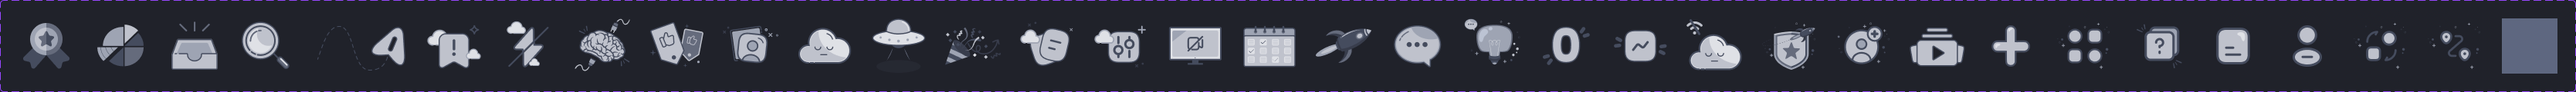
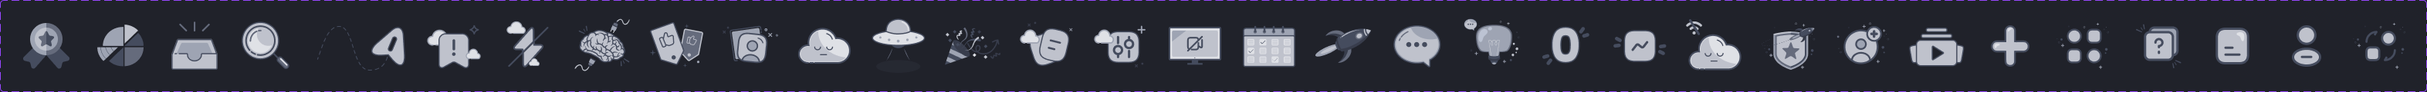
Delete the null Empty state illustration; rename Categorize to Categorise
Figma: the 8 Empty state variants that used the null placeholder now default to
Empty box (as code does), the null variant is deleted, and Assessments
Type=Categorize is Categorise in both sets. Mapping, figma.json, Compare rows and
notes follow.

Changed region(s): [[0.0, 0.2, 0.9975, 0.8], [0.0, 0.975, 0.9975, 1.0], [0.0, 0.0, 0.9975, 0.025]]

diff --git a/apps/shell/src/modules/components/empty-state/EmptyStateCompare.tsx b/apps/shell/src/modules/components/empty-state/EmptyStateCompare.tsx
@@ -13,7 +13,7 @@ const compare: Compare = {
     { property: 'Mobile', figma: '375px; padding 16, gap 16; title Bold 16', reference: 'Same; fills its parent', status: 'Matches' },
     { property: 'Info', figma: 'Title and description 8px apart, centred', reference: 'Same', status: 'Matches' },
     { property: 'Buttons', figma: 'Outlined and Filled Medium, 16px apart', reference: 'Same', status: 'Matches' },
-    { property: 'Illustration', figma: 'The null placeholder (a #5E6780 square) in the set', reference: 'A real illustration from the set; four exported', status: 'Matches', note: 'The other 30 illustrations can be exported when a page needs them.' },
+    { property: 'Illustration', figma: 'Empty box by default (the null placeholder was deleted on 2026-09-30)', reference: 'Empty box by default; any of the 33 illustrations', status: 'Matches' },
     { property: 'Dropzone surface', figma: 'Surface=Dropzone (added 2026-09-29): Input-background, dashed Border-elevated 8/8 inside, radius 20, desktop padding 32', reference: 'Same (surface="dropzone"; the outline is an SVG so the dashes can be set)', status: 'Matches', note: 'From the prototype’s course builder. It fills the width of its area in code; Figma hugs.' },
   ],
   engineering: {

diff --git a/apps/shell/src/modules/components/empty-state-illustration/EmptyStateIllustrationCompare.tsx b/apps/shell/src/modules/components/empty-state-illustration/EmptyStateIllustrationCompare.tsx
@@ -11,7 +11,7 @@ const compare: Compare = {
   differences: [
     { property: "Artwork", figma: "33 illustrations, 72px tall", reference: "The same 33 SVGs (from the prototype; empty box, search, resources and no activity exported from Figma in batch 9)", status: "Matches" },
     { property: "Prototype files", figma: "Share is 120 wide, so every variant after it sits 48px further along the set", reference: "The prototype cropped 28 files 48px short and Share to 72 wide, cutting the art. Fixed here and in the prototype (viewBoxes from the Figma positions; Share re-exported)", status: "Matches" },
-    { property: "Unnamed variant", figma: "A 34th variant called “null”", reference: "Left out", status: "Design to update", note: "Name it or delete it." },
+    { property: "Unnamed variant", figma: "The “null” placeholder variant was deleted on 2026-09-30; the 8 Empty state variants that used it now default to Empty box", reference: "Empty box is the default", status: "Matches" },
     { property: "Light version", figma: "One copy, used as an instance on the light board", reference: "One set of files: the Neutral colours don't change with the mode", status: "Matches" },
   ],
   engineering: {

diff --git a/apps/shell/src/modules/components/assessment-illustration/AssessmentIllustrationCompare.tsx b/apps/shell/src/modules/components/assessment-illustration/AssessmentIllustrationCompare.tsx
@@ -12,7 +12,7 @@ const compare: Compare = {
     { property: "Artwork", figma: "Eleven types, Mobile 56 and Desktop 80", reference: "The same 22 SVGs (from the prototype), used by the Assessment card since batch 15", status: "Matches" },
     { property: "Light set", figma: "Lesson quiz, Desktop was missing from the light set", reference: "Added on 2026-09-30 (a copy of the dark variant); the light set now mirrors the dark one", status: "Matches" },
     { property: "Colours", figma: "Bound to the assessment type colours (Blaze quiz, Flash Poll…)", reference: "The same values, baked into the files", status: "Matches" },
-    { property: "Spelling", figma: "“Categorize”", reference: "“Categorise” in the UI copy (British English)", status: "Design to update" },
+    { property: "Spelling", figma: "“Categorise” (renamed from Categorize on 2026-09-30, both sets)", reference: "“Categorise”", status: "Matches" },
   ],
   engineering: {
     mui: 'img',

diff --git a/packages/components/src/Illustrations/illustrations.figma.ts b/packages/components/src/Illustrations/illustrations.figma.ts
@@ -45,7 +45,7 @@ export const assessmentIllustrationFigma: FigmaMapping = {
   set: 'Illustrations/ Assessments',
   nodes: { light: '12154:10371', dark: '9120:8850' },
   variants: {
-    Type: ['Lesson quiz', 'Multiple choice', 'Short text', 'Exercise', 'Situational test', 'Fast Track', 'Poll', 'Fill in the blank', 'Sequence', 'Categorize', 'Match the pairs'],
+    Type: ['Lesson quiz', 'Multiple choice', 'Short text', 'Exercise', 'Situational test', 'Fast Track', 'Poll', 'Fill in the blank', 'Sequence', 'Categorise', 'Match the pairs'],
     Device: ['Mobile', 'Desktop'],
   },
 }

diff --git a/docs/phase-1-batch-22-notes.md b/docs/phase-1-batch-22-notes.md
@@ -34,6 +34,10 @@ Checked 2026-09-30.
 ## Changed in Figma
 - **Assessments light set:** it was missing "Lesson quiz, Desktop". I added a copy of the dark variant (`12393:2`) and laid the light set out to mirror the dark one, 2784 wide.
 
+## Follow-up (Bruno, 2026-09-30)
+- **"null" variant deleted:** it was the default illustration in all 8 Empty state variants (light and dark). Those were swapped to Empty box first, which is also the default in code, then the variant was deleted. The set is now 33 variants, 3144 wide.
+- **Categorise:** Assessments Type=Categorize is renamed Categorise in both sets. Instances keep their link.
+
 ## Fixed in the prototype
 - **Empty state illustrations:** Share is 120 wide, so every variant after it sits 48px further along the set. The prototype's files assumed 72:
   - 28 files had viewBoxes 48px short, which cut the art. They now use the Figma positions.
@@ -41,7 +45,5 @@ Checked 2026-09-30.
   - The same fixes are in `packages/components`.
 
 ## Mismatches recorded (Design to update)
-- **Unnamed variant:** the Empty state set has a 34th variant called "null". Name it or delete it.
-- **Spelling:** Assessments "Categorize" is "Categorise" in UI copy (British English).
 - **Raw colours:** Functions uses raw colours with no variables. They don't change by mode, so nothing breaks.
 - **Page:** the Empty state illustrations live on the Empty state page, the others on Gamification.

diff --git a/playground/docs/design-system/gamification.md b/playground/docs/design-system/gamification.md
@@ -65,7 +65,7 @@ Source: Figma `Illustrations/ Assessments`, frame `9120:8850` (classic six downl
 | `poll` | Poll | `9120:9290` / `10978:12427` | amber lightning bolt |
 | `fill-blank` | Fill in the blank | `12086:6607` / `12086:7219` | red lines with blue gaps |
 | `sequence` | Sequence | `12087:8357` / `12090:7286` | stacked purple bars |
-| `categorize` | Categorize | `12090:6607` / `12090:7313` | blue shapes in two groups |
+| `categorize` | Categorise | `12090:6607` / `12090:7313` | blue shapes in two groups |
 | `match-pairs` | Match the pairs | `12092:8499` / `12092:8573` | green and red arrows |
 
 Mobile and Desktop are **different artwork**, not scaled copies — pick by device, never resize one into the other. The one sanctioned exception is the 48px admin outline row, which draws the desktop variant down.
